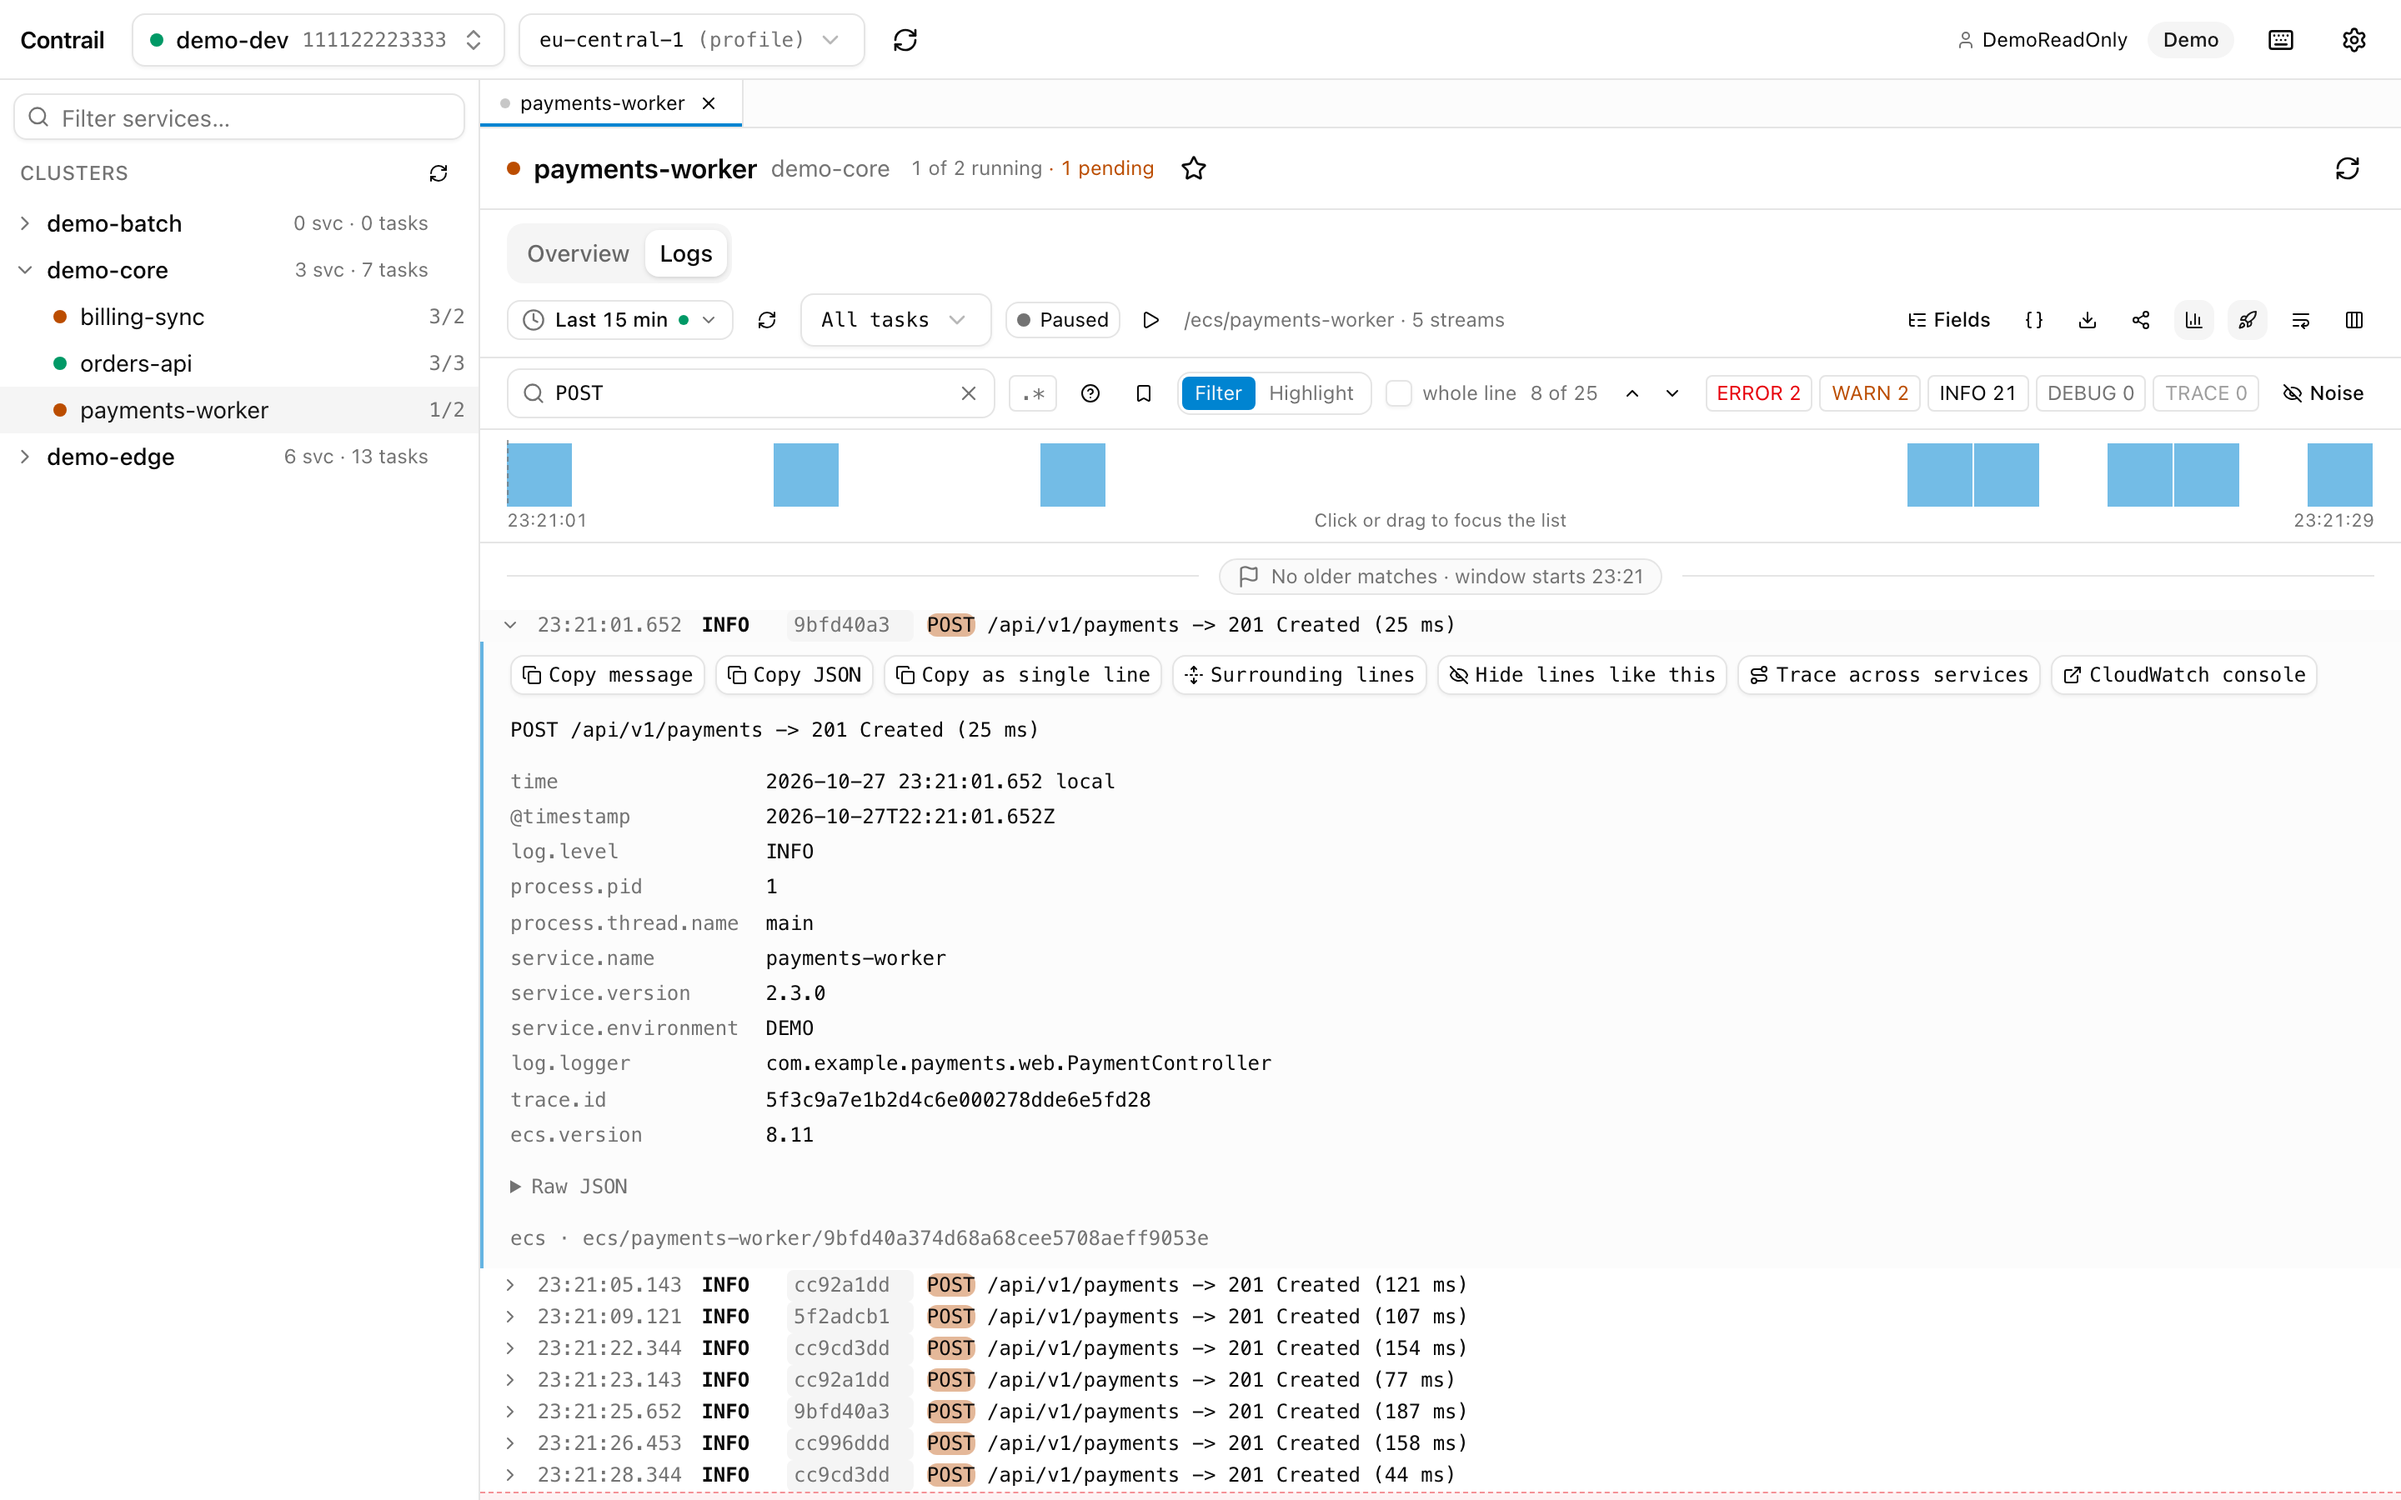
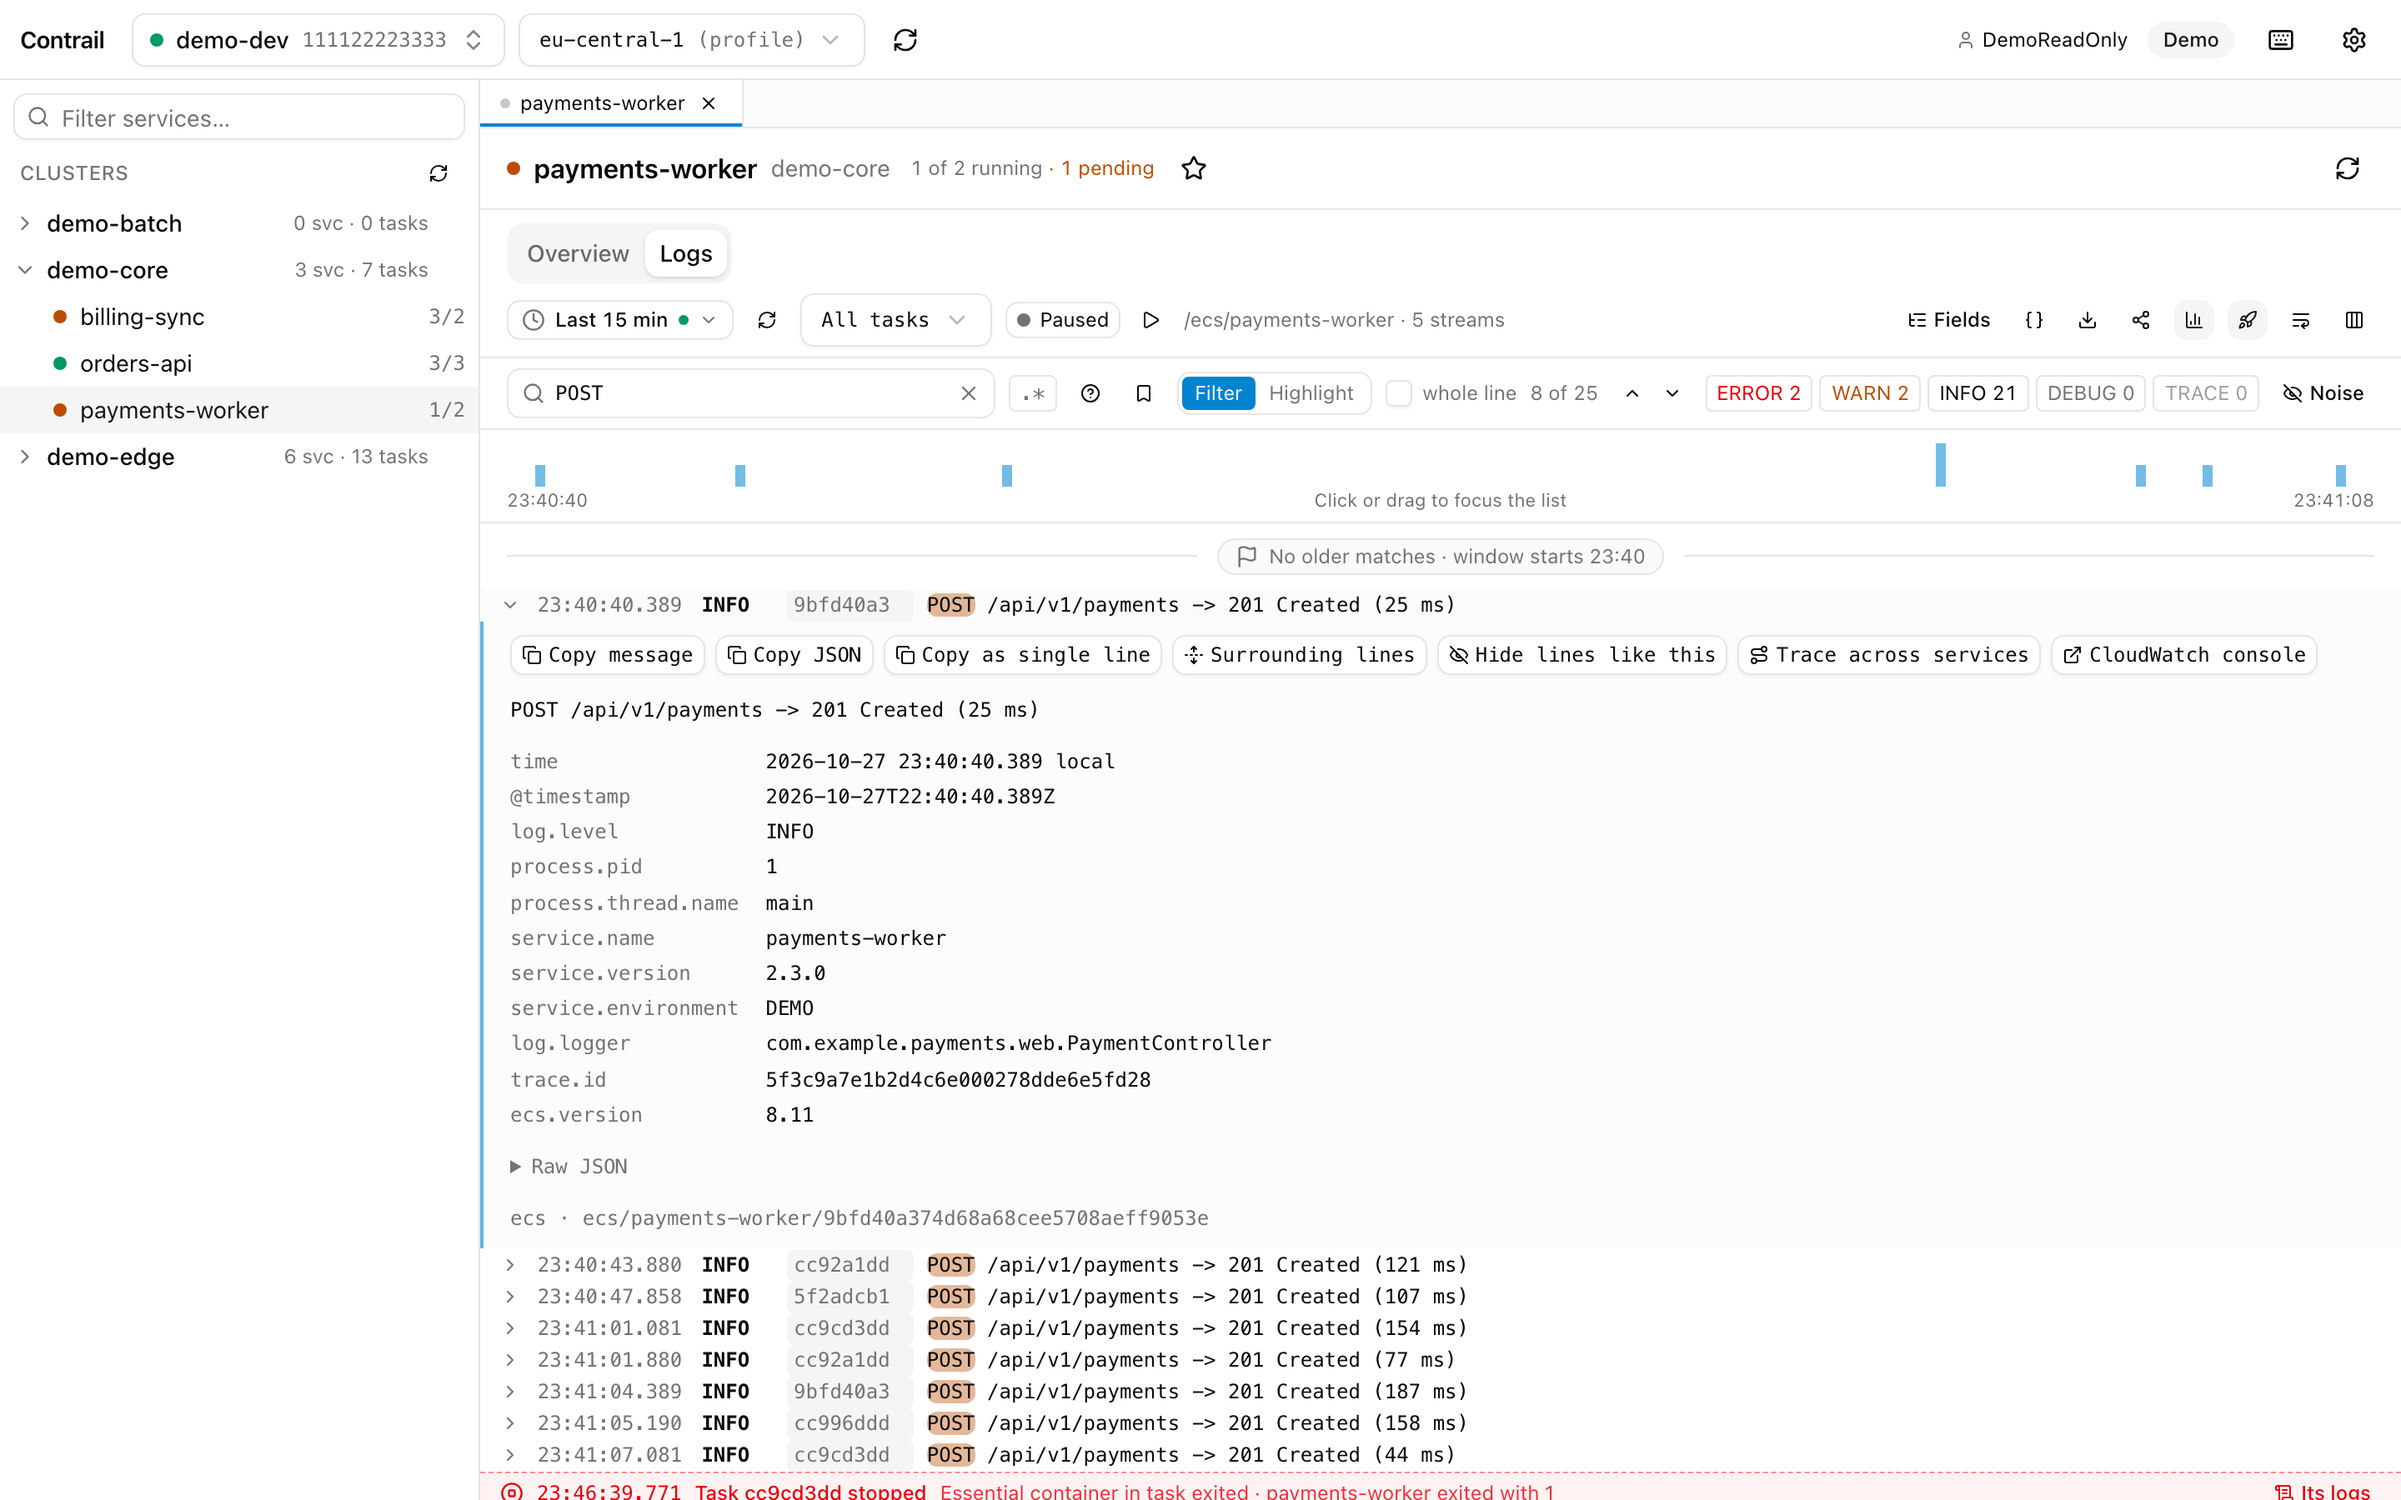
fix(logs): a slimmer timeline with thin bars
With few buckets (a short or sparse window) every bar was as wide as its
bucket, so the timeline drew blocks, and at 40 px it was tall for a
strip above the list. It is 28 px now, and bars are at most 6 px wide,
centred in their bucket. Site screenshots refreshed.

Changed region(s): [[0.1875, 0.28, 0.9688, 1.0], [0.7188, 0.28, 1.0, 0.3733], [0.9375, 0.9956, 1.0, 1.0]]

diff --git a/app/ui/src/components/logs/TimelineChart.tsx b/app/ui/src/components/logs/TimelineChart.tsx
@@ -13,10 +13,15 @@ import { markersBetween } from "@/lib/markers";
 import { useLogs } from "@/stores/logs";
 import { usePrefs } from "@/stores/prefs";
 
-/** The chart's height in pixels (bars plus the labels under them). */
-const BARS_HEIGHT = 40;
+/** The bars' height in pixels: a strip above the list, not a chart of its own. */
+const BARS_HEIGHT = 28;
 /** A bar is at least this wide, so the number of buckets follows the chart's width. */
 const MIN_BAR_PX = 5;
+/**
+ * A bar is at most this wide, centred in its bucket: few buckets (a short or sparse window)
+ * would otherwise draw blocks.
+ */
+const MAX_BAR_PX = 6;
 /** While events arrive live, the timeline is asked again at most this often. */
 const REFRESH_MS = 1_000;
 
@@ -87,6 +92,7 @@ export function TimelineChart({ viewId }: { viewId: number }) {
   const count = timeline?.buckets.length ?? 0;
   const highest = timeline ? Math.max(1, ...timeline.buckets.map(total)) : 1;
   const barWidth = count > 0 ? width / count : 0;
+  const drawnWidth = Math.max(1, Math.min(MAX_BAR_PX, barWidth - 1));
   const indexAt = (x: number) => Math.min(count - 1, Math.max(0, Math.floor(x / barWidth)));
   const localX = (clientX: number) => clientX - (box.current?.getBoundingClientRect().left ?? 0);
   const spansDays = timeline ? count * timeline.bucketMs >= 86_400_000 : false;
@@ -158,9 +164,9 @@ export function TimelineChart({ viewId }: { viewId: number }) {
                   return (
                     <rect
                       key={key}
-                      x={i * barWidth}
+                      x={i * barWidth + (barWidth - drawnWidth) / 2}
                       y={y}
-                      width={Math.max(1, barWidth - 1)}
+                      width={drawnWidth}
                       height={height}
                       className={fill}
                     />

diff --git a/app/ui/src/components/logs/LogListSkeleton.tsx b/app/ui/src/components/logs/LogListSkeleton.tsx
@@ -13,7 +13,7 @@ export function LogListSkeleton({ timeline, label }: { timeline: boolean; label:
       <span className="sr-only">{label}…</span>
       {timeline && (
         <div className="border-b border-border px-4 pt-1.5 pb-1">
-          <Skeleton className="h-10" />
+          <Skeleton className="h-7" />
           <div className="h-[15px]" />
         </div>
       )}
